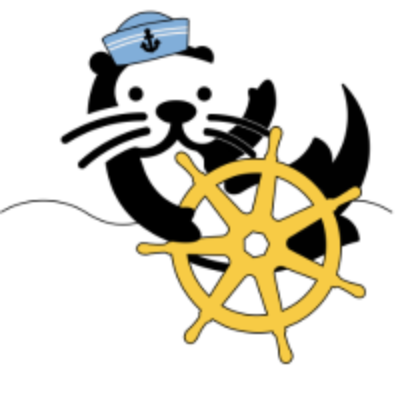
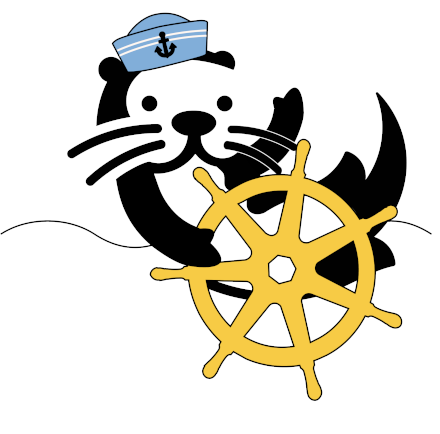
Update otterhelm image with correct size and background.

diff --git a/README.md b/README.md
@@ -1,6 +1,6 @@
 # Otterize OSS
 
-![Otter Manning Helm](./otterhelm.png)
+<img title="Otter Manning Helm" src="./otterhelm.png" width=200 />
 
 
 [About](#about) | [Quick tutorials](https://docs.otterize.com/quick-tutorials/) | [Docs](https://docs.otterize.com) | [Contributing](#contributing) | [Slack](#slack)
